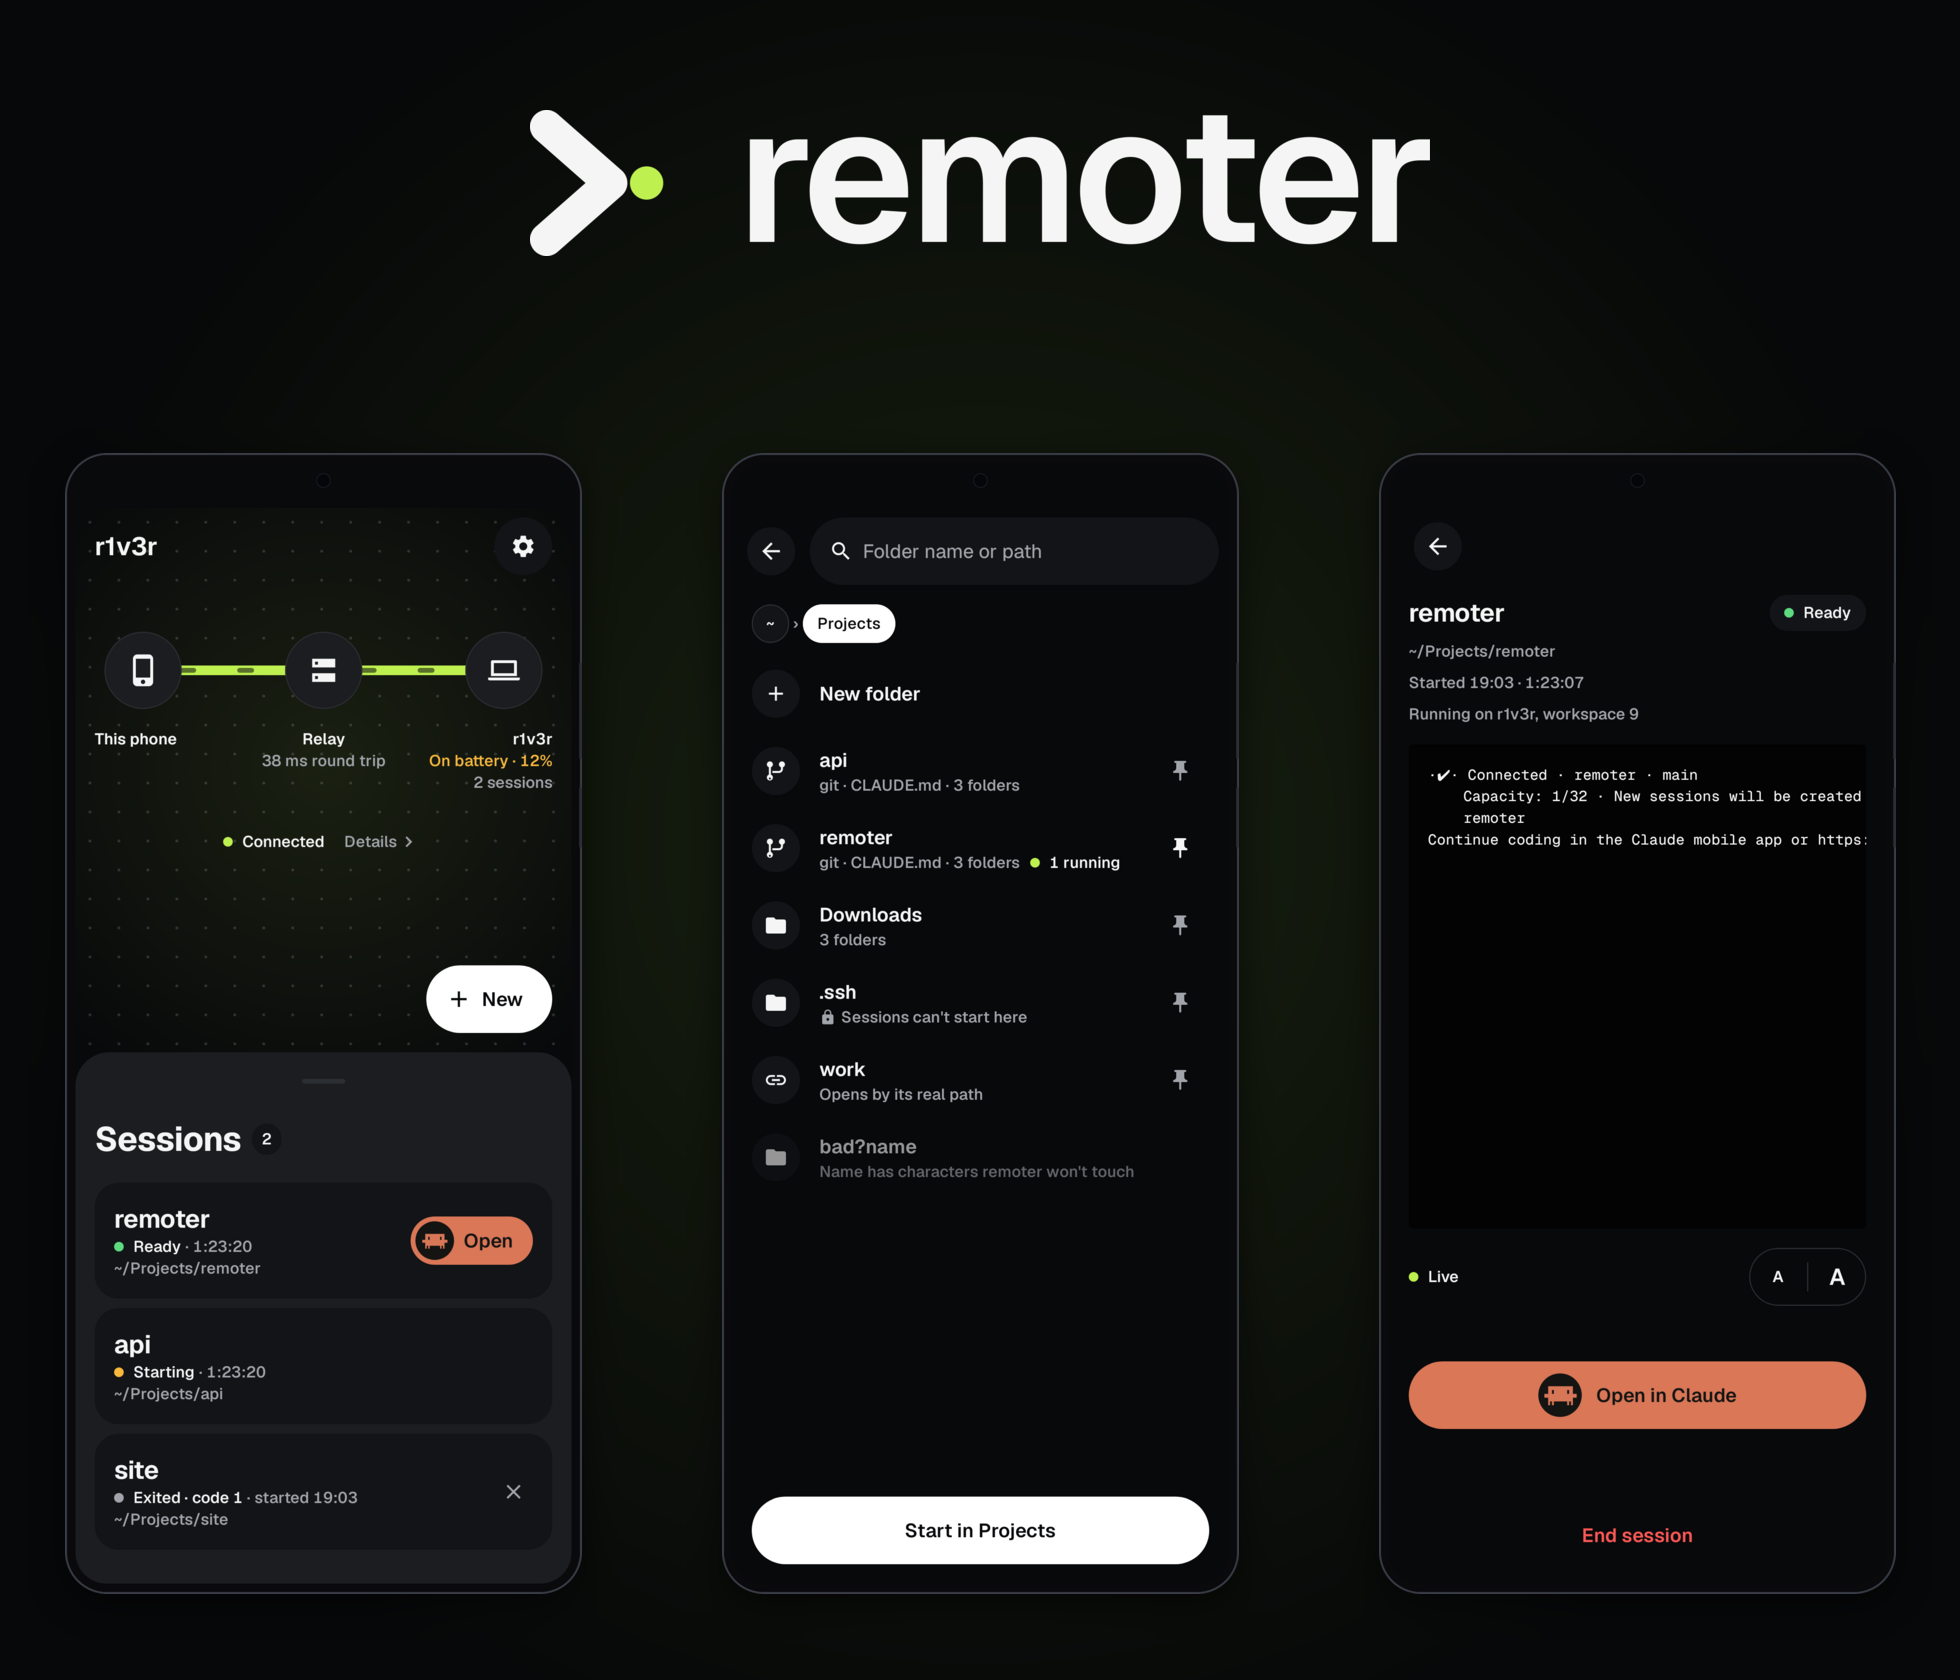
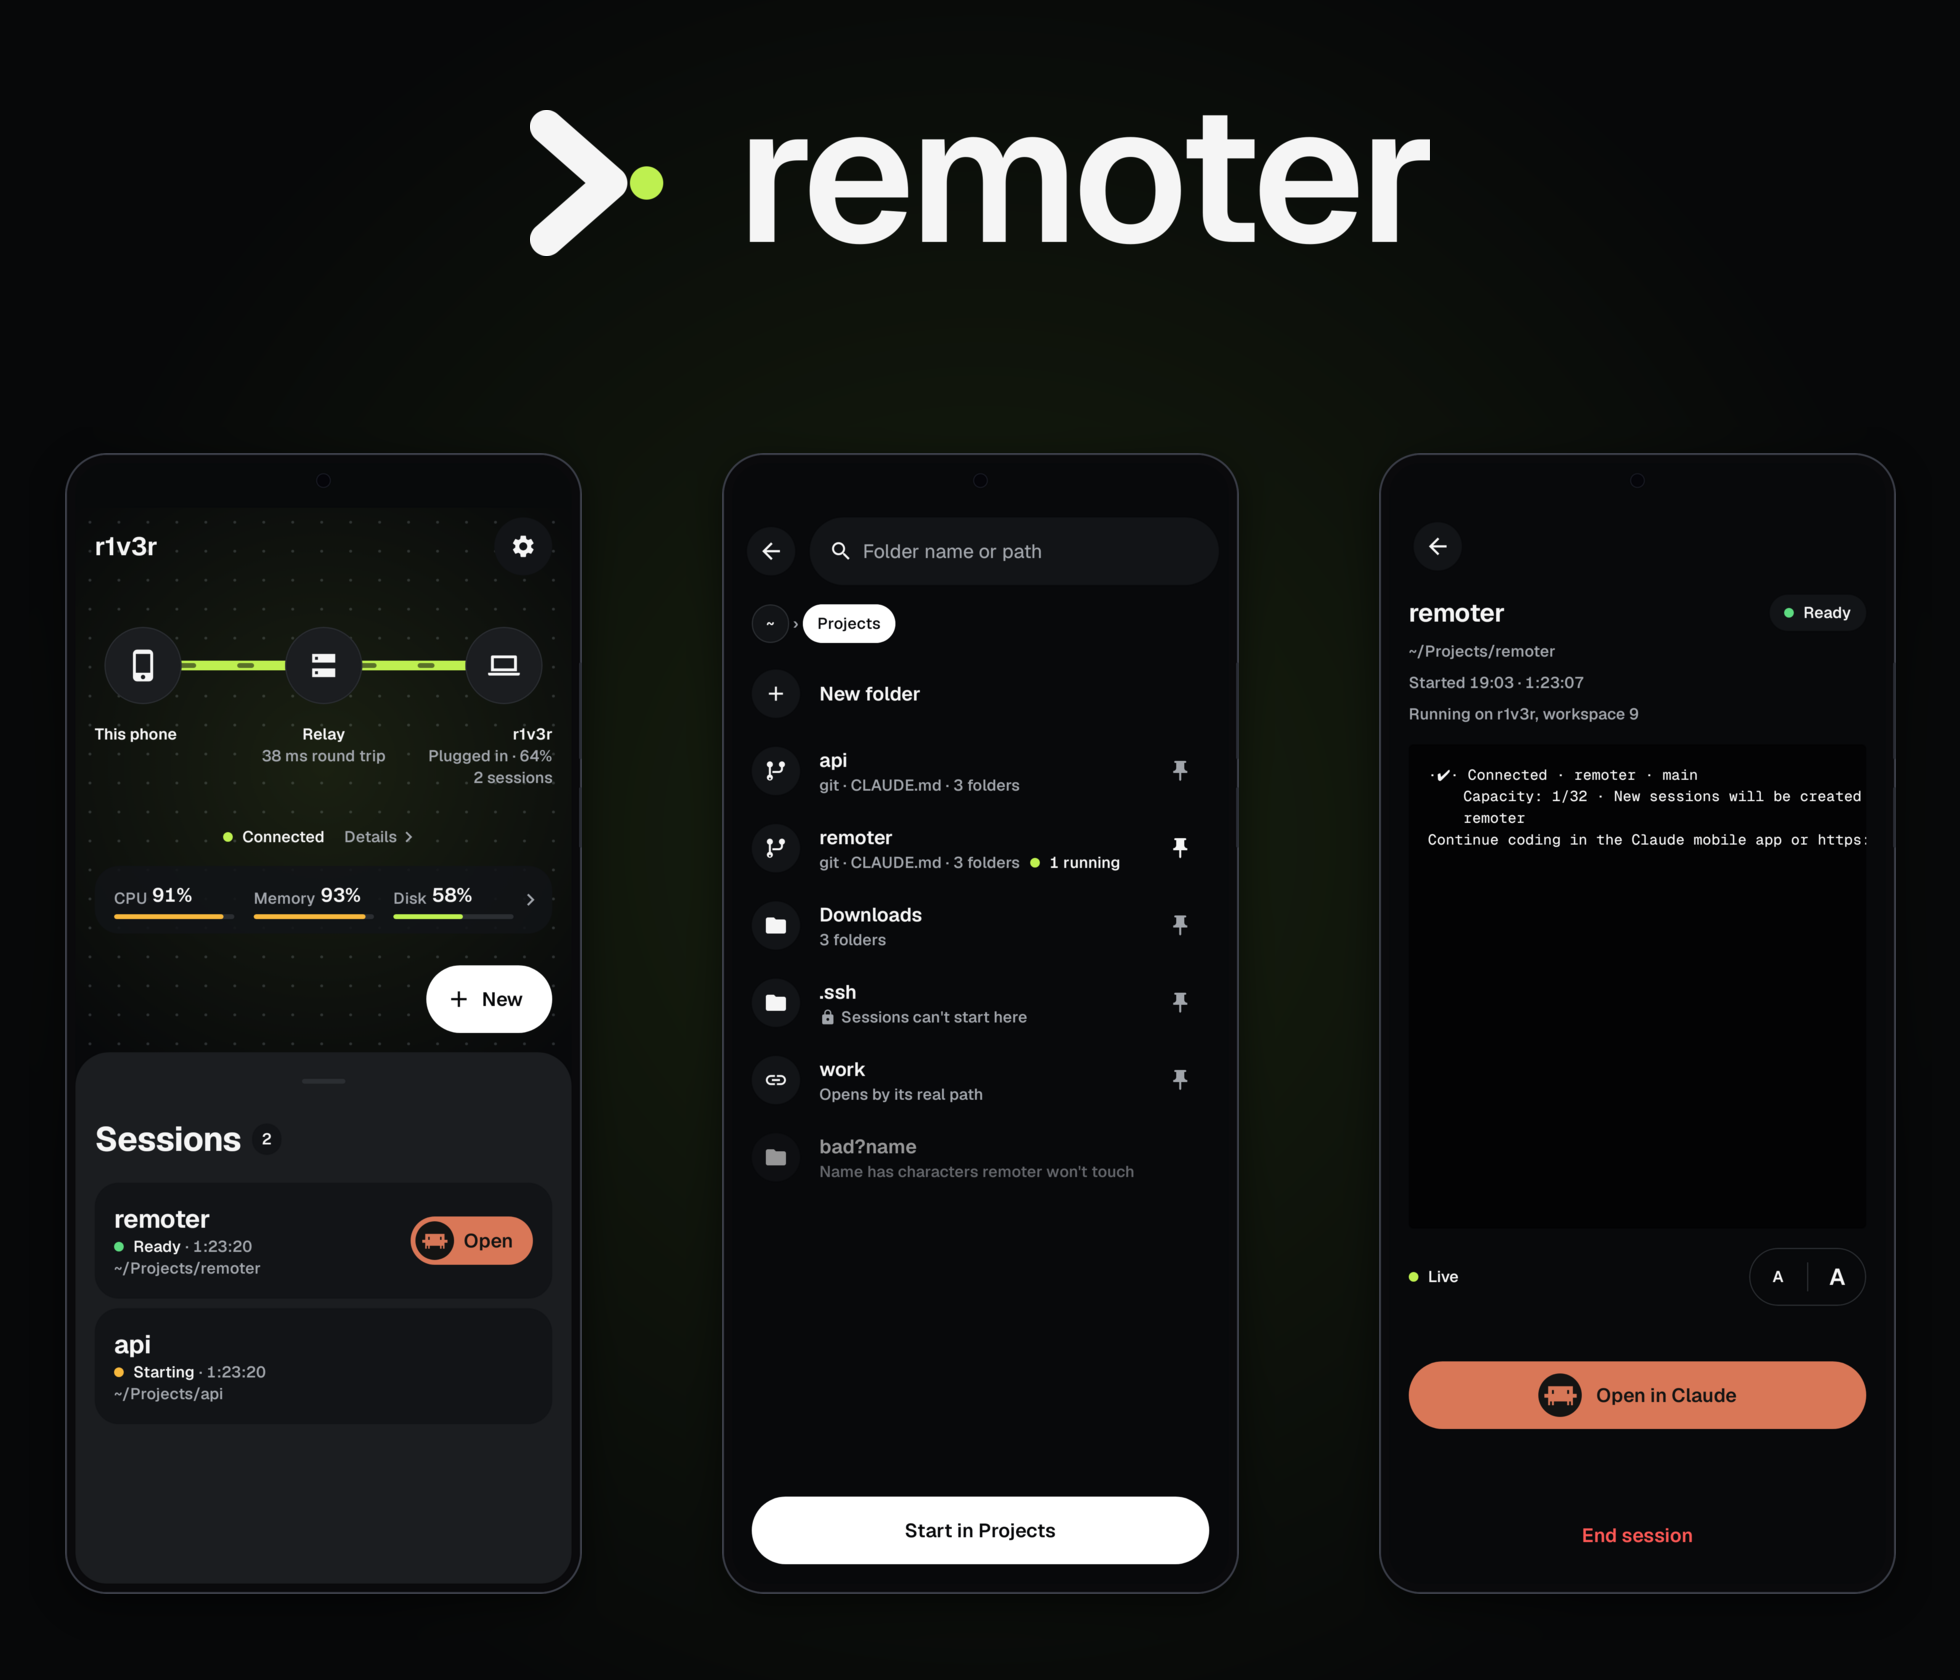
readme images with the load card and the process list

diff --git a/README.md b/README.md
@@ -1,6 +1,6 @@
 <div align="center">
 
-<img src="docs/screens/hero.png" width="900" alt="remoter: home with the tunnel map and running sessions, the folder browser, and a live session" />
+<img src="docs/screens/hero.png" width="900" alt="remoter: home with the tunnel map, laptop load and running sessions, the folder browser, and a live session" />
 
 ### Start Claude Code on your laptop from your phone, then carry on in the Claude app.
 
@@ -28,7 +28,7 @@
 
 Pick a folder on your laptop, touch the fingerprint sensor, and a Claude Code
 Remote Control session comes up there a few seconds later. Open it in the Claude
-app and keep going. **Nothing open to the internet, no account, no password.**
+app and keep going. **Nothing answers the internet, no account, no password.**
 The phone reaches the laptop over a WireGuard tunnel, and anything that changes
 something is signed by a key that never leaves the phone's security chip.
 
@@ -76,6 +76,10 @@ the laptop to answer. So remoter marks each folder trusted right before it
 starts a session there. That means the folder's own Claude settings, hooks and
 MCP servers run without asking, so don't start sessions in code you just
 downloaded.
+
+<div align="center">
+  <img src="docs/screens/processes.png" width="640" alt="The process list sorted by CPU, and the sheet for a session's claude with Quit and Kill" />
+</div>
 
 ---
 
